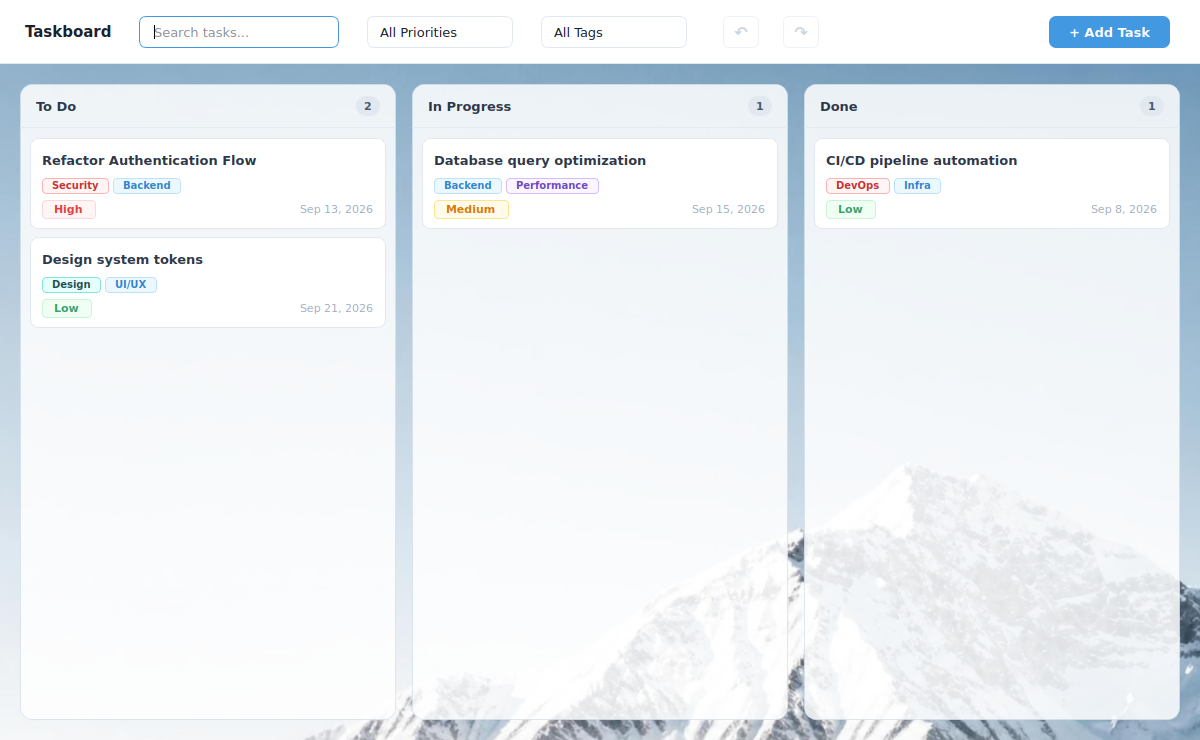
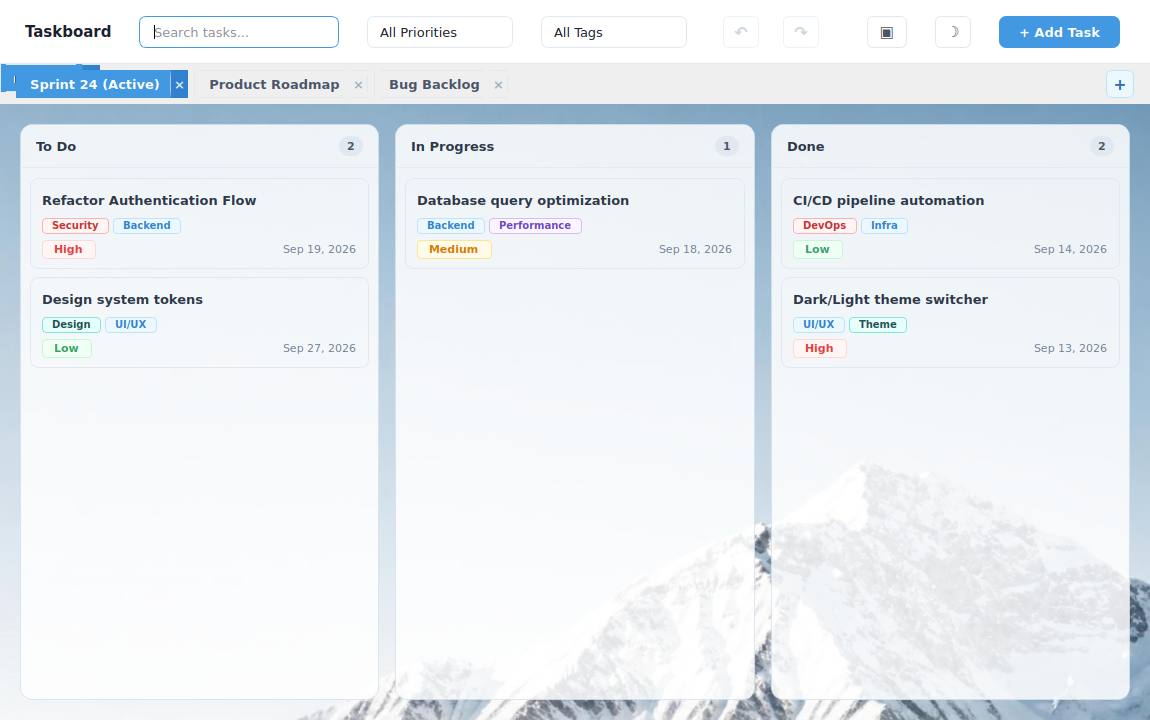
docs: update README and add preview screenshots for Tier 3 features

diff --git a/src/ui/ChartWidget.cpp b/src/ui/ChartWidget.cpp
@@ -79,7 +79,12 @@ void ChartWidget::paintEvent(QPaintEvent *)
     int titleH = 0;
     if (!m_title.isEmpty()) {
         QFont titleFont = font();
-        titleFont.setPointSizeF(font().pointSizeF() * 1.1);
+        if (titleFont.pointSizeF() > 0)
+            titleFont.setPointSizeF(titleFont.pointSizeF() * 1.1);
+        else if (titleFont.pixelSize() > 0)
+            titleFont.setPixelSize(static_cast<int>(titleFont.pixelSize() * 1.1));
+        else
+            titleFont.setPointSize(12);
         titleFont.setWeight(QFont::DemiBold);
         p.setFont(titleFont);
         p.setPen(isDark ? QColor(0xf1, 0xf5, 0xf9) : QColor(0x2d, 0x37, 0x48));

diff --git a/README.md b/README.md
@@ -2,16 +2,22 @@
 
 A modern, responsive desktop Kanban task board application built with **C++17** and **Qt 6 (Widgets)**.
 
-Designed with a modern frosted glass and pastel aesthetic, robust layer separation, comprehensive undo/redo, dynamic filtering, and local JSON persistence.
+Designed with a modern frosted glass and pastel aesthetic, multi-board project management, visual statistics analytics, runtime dark/light theme switching, model/view architecture, comprehensive undo/redo, dynamic filtering, and local JSON persistence.
 
 ---
 
 ## Previews
 
-### Home Page & Kanban Board
-![Taskboard Home Page](screenshots/preview_home_page.png)
+### ☀ Light Mode & Kanban Board
+![Taskboard Light Mode](screenshots/preview_home_page.png)
 
-### Task Details, Creation & Editing
+### 🌙 Dark Mode (Runtime Theme Switching)
+![Taskboard Dark Mode](screenshots/preview_dark_mode.png)
+
+### 📊 Statistics & Analytics Dashboard (Ctrl+Shift+S)
+![Taskboard Statistics Dashboard](screenshots/preview_stats_dialog.png)
+
+### 📝 Task Details, Creation & Editing
 | Task Details | New / Edit Task Dialog |
 | :---: | :---: |
 | ![Task Details](screenshots/preview_task_details.png) | ![Edit Task](screenshots/preview_edit_task.png) |
@@ -20,48 +26,75 @@ Designed with a modern frosted glass and pastel aesthetic, robust layer separati
 
 ## Architectural Design
 
-The project strictly follows a 3-tier architectural separation to maintain clean boundaries between UI, domain logic, and data storage:
+The project strictly follows a decoupled 3-tier architectural separation to maintain clean boundaries between UI, domain logic, and data storage:
 
-`
+```text
 src/
-├── core/       # Business domain layer (Task, Board, Command pattern)
-│               # Pure C++ logic, no QWidget dependencies.
-│               # Ownership: std::unique_ptr & STL containers.
-├── data/       # Persistence abstraction (JsonStore via QJsonDocument).
-│               # Handles I/O serialization & deserialization.
-└── ui/         # Presentation layer (MainWindow, BoardColumnWidget, TaskCardWidget, Dialogs).
-                # Driven strictly by Qt Signals & Slots.
-                # Ownership: Qt parent-child QObject tree.
-`
+├── core/       # Business domain layer
+│   ├── Task.h/.cpp               # Value-type task entity
+│   ├── Board.h/.cpp              # Single-board aggregate & signals
+│   ├── BoardManager.h/.cpp       # Multi-board collection manager (Tier 3)
+│   ├── Command.h/.cpp            # Command pattern actions (Add/Edit/Delete/Move)
+│   ├── CommandHistory.h/.cpp     # Undo/Redo stack manager
+│   ├── ThemeManager.h/.cpp       # Runtime QSS theme engine (Tier 3)
+│   ├── TaskListModel.h/.cpp      # QAbstractListModel implementation (Tier 3)
+│   └── TaskSortFilterModel.h/.cpp# QSortFilterProxyModel for filtering/sorting (Tier 3)
+│
+├── data/       # Persistence abstraction
+│   └── JsonStore.h/.cpp          # QJsonDocument serialization (v1 & multi-board v2)
+│
+└── ui/         # Presentation layer (Qt Widgets)
+    ├── MainWindow.h/.cpp         # Main application window & toolbars
+    ├── BoardBarWidget.h/.cpp     # Switchable board tab strip (Tier 3)
+    ├── BoardColumnWidget.h/.cpp  # Kanban status column container & drop target
+    ├── TaskCardWidget.h/.cpp     # Interactive card widget with drag source
+    ├── TaskCardDelegate.h/.cpp   # QStyledItemDelegate for Model/View views (Tier 3)
+    ├── StatsDialog.h/.cpp        # Statistics dashboard dialog (Tier 3)
+    ├── ChartWidget.h/.cpp        # Custom animated QPainter bar chart (Tier 3)
+    ├── TaskEditDialog.h/.cpp     # Frameless task creation/editing modal
+    └── TaskDetailsDialog.h/.cpp  # Task details view modal
+```
 
-### Memory Ownership Strategy
-- **Core Layer:** Strict modern C++ RAII using std::unique_ptr for Command objects in CommandHistory and value semantics for Task models inside Board.
-- **UI Layer:** Qt parent-child ownership tree (QObject parenting) ensures automatic and deterministic cleanup of child widgets and layouts when windows/columns are destroyed.
-- **Signal-Decoupled Operations:** Safe asynchronous cleanup (deleteLater() and Qt::QueuedConnection) prevents lifecycle use-after-free conflicts during active drag-and-drop event loops.
+### Memory Ownership & Stability Strategy
+- **Core Layer:** Strict modern C++ RAII using `std::unique_ptr` for Command objects in `CommandHistory` and value semantics for `Task` models inside `Board`.
+- **UI Layer:** Qt parent-child ownership tree (`QObject` parenting) ensures automatic and deterministic cleanup of child widgets and layouts when windows/columns are destroyed.
+- **Signal-Decoupled Operations:** Safe asynchronous cleanup (`deleteLater()`, `QTimer::singleShot()`, and `Qt::QueuedConnection`) prevents lifecycle use-after-free conflicts during active drag-and-drop event loops or board deletion.
+- **Pre-Destruction Signaling:** `BoardManager::boardAboutToBeRemoved` ensures active listeners disconnect cleanly while objects are still valid in memory.
 
 ---
 
 ## Feature Checklist & Status
 
-###  Tier 1 — Minimum Core (Completed)
+### ✅ Tier 1 — Minimum Core (Completed)
 - [x] **Task Data Model:** Full model with Title, Description, Priority (Low, Medium, High), and Due Date.
 - [x] **Kanban Board:** Three standard workflow columns (*To Do*, *In Progress*, *Done*) with live task counters.
 - [x] **Task Management:** Custom dialogs to create, modify, and delete tasks.
 - [x] **Drag & Drop:** Safe, intuitive card dragging between columns with visual drop target feedback.
-- [x] **JSON Persistence:** Automatic atomic serialization to standard application data path (oard.json).
+- [x] **JSON Persistence:** Automatic atomic serialization to standard application data path (`board.json`).
 - [x] **Search & Priority Filtering:** Real-time search query filtering and priority-based filtering.
 
-###  Tier 2 — Enhancements (Completed)
+### ✅ Tier 2 — Enhancements (Completed)
 - [x] **Colored Tags & Tag Filtering:** Dynamic pastel badge pills on cards with toolbar tag dropdown filter.
-- [x] **Task Details Dialog:** Dedicated modal displaying detailed description, tags, and ISO 8601 timestamps (createdAt, modifiedAt).
+- [x] **Task Details Dialog:** Dedicated modal displaying detailed description, tags, and ISO 8601 timestamps (`createdAt`, `modifiedAt`).
 - [x] **QSettings Persistence:** Window size, screen position, maximized state, and filter preferences persisted across restarts.
-- [x] **Undo / Redo (Command Pattern):** Full history stack supporting Ctrl+Z / Ctrl+Y and dedicated toolbar buttons for adding, modifying, deleting, and moving tasks.
+- [x] **Undo / Redo (Command Pattern):** Full history stack supporting `Ctrl+Z` / `Ctrl+Y` and dedicated toolbar buttons for adding, modifying, deleting, and moving tasks.
 
-### ⏳ Tier 3 — Advanced Stretch Goals (In Progress / Next)
-- [ ] **11. Multiple Boards:** Switchable project boards.
-- [ ] **12. Statistics Dashboard:** Visual analytics (Qt Charts or custom QPainter visualization).
-- [ ] **13. Model/View Architecture:** Full QAbstractListModel and QSortFilterProxyModel implementation.
-- [ ] **14. Runtime Theme Switcher:** Instant Dark / Light theme switching without restarting.
+### ✅ Tier 3 — Advanced Stretch Goals (Completed)
+- [x] **11. Multiple Boards:** Switchable project boards with a dedicated tab strip (`BoardBarWidget`). Supports creating (`+`), inline renaming (double-click), and deleting with confirmation. Persisted in Version 2 multi-board JSON format with automatic backward-compatible migration.
+- [x] **12. Statistics Dashboard:** Visual analytics modal (`StatsDialog`) featuring custom animated 60 FPS bar charts (`ChartWidget` with `QPainter`), status and priority distributions, tag analytics, and overview summary cards. Shortcut: `Ctrl+Shift+S`.
+- [x] **13. Model/View Architecture:** Full `QAbstractListModel` (`TaskListModel`), `QSortFilterProxyModel` (`TaskSortFilterModel`), and custom `QStyledItemDelegate` (`TaskCardDelegate`) for scalable item views.
+- [x] **14. Runtime Theme Switcher:** Instant Dark Mode / Light Mode toggle (`ThemeManager`) without restart via toolbar button (🌙 / ☀). Theme preference is persisted in `QSettings`.
+
+---
+
+## Keyboard Shortcuts
+
+| Shortcut | Action |
+| :--- | :--- |
+| `Ctrl+Z` | Undo last task action |
+| `Ctrl+Y` | Redo last undone action |
+| `Ctrl+Shift+S` | Open Board Statistics Dashboard |
+| `Escape` | Close active dialog / modal |
 
 ---
 
@@ -70,12 +103,12 @@ src/
 ### Prerequisites
 - **C++ Compiler:** GCC 10+, Clang 11+, or MSVC 2019+ (with C++17 support)
 - **CMake:** Version 3.16 or newer
-- **Qt 6:** Qt 6.2+ (qt6-base-dev)
+- **Qt 6:** Qt 6.2+ (`qt6-base-dev`)
 - **Build tool:** Ninja or GNU Make
 
 ### Build Instructions
 
-`ash
+```bash
 # 1. Clone the repository
 git clone https://github.com/kirazizi/qt-taskboard.git
 cd qt-taskboard
@@ -88,10 +121,4 @@ cmake --build build
 
 # 4. Run application
 ./build/qt-taskboard
-`
-
----
-
-## Known Issues & Limitations
-- Running in headless or minimal container environments without a physical display requires QT_QPA_PLATFORM=offscreen or Xvfb for automated headless rendering.
-- Drag-and-drop operations rely on Qt's drag mime data; drop positioning currently appends to column targets.
+```
